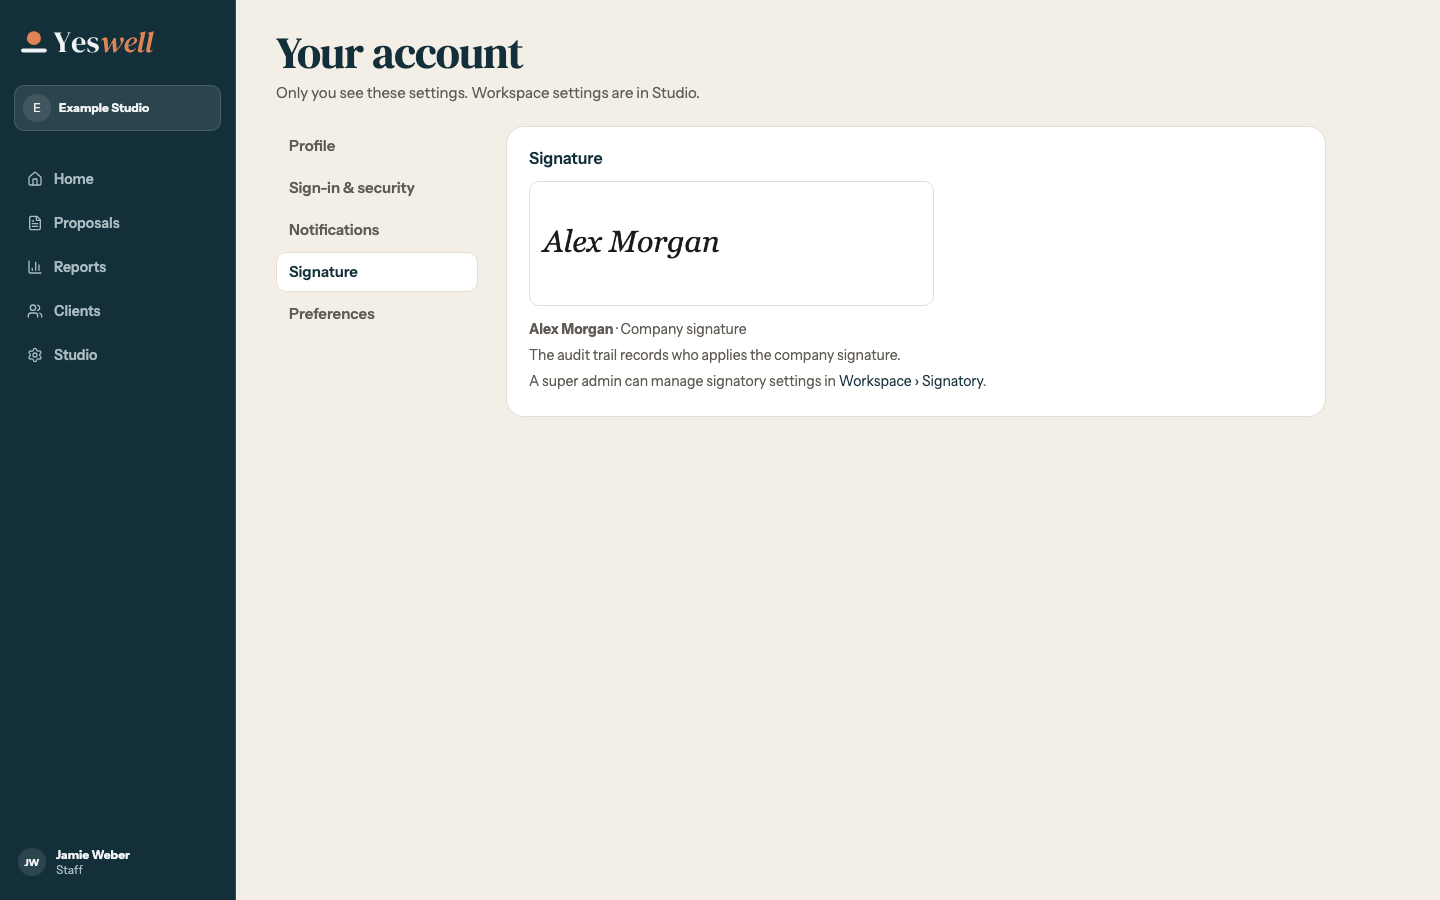
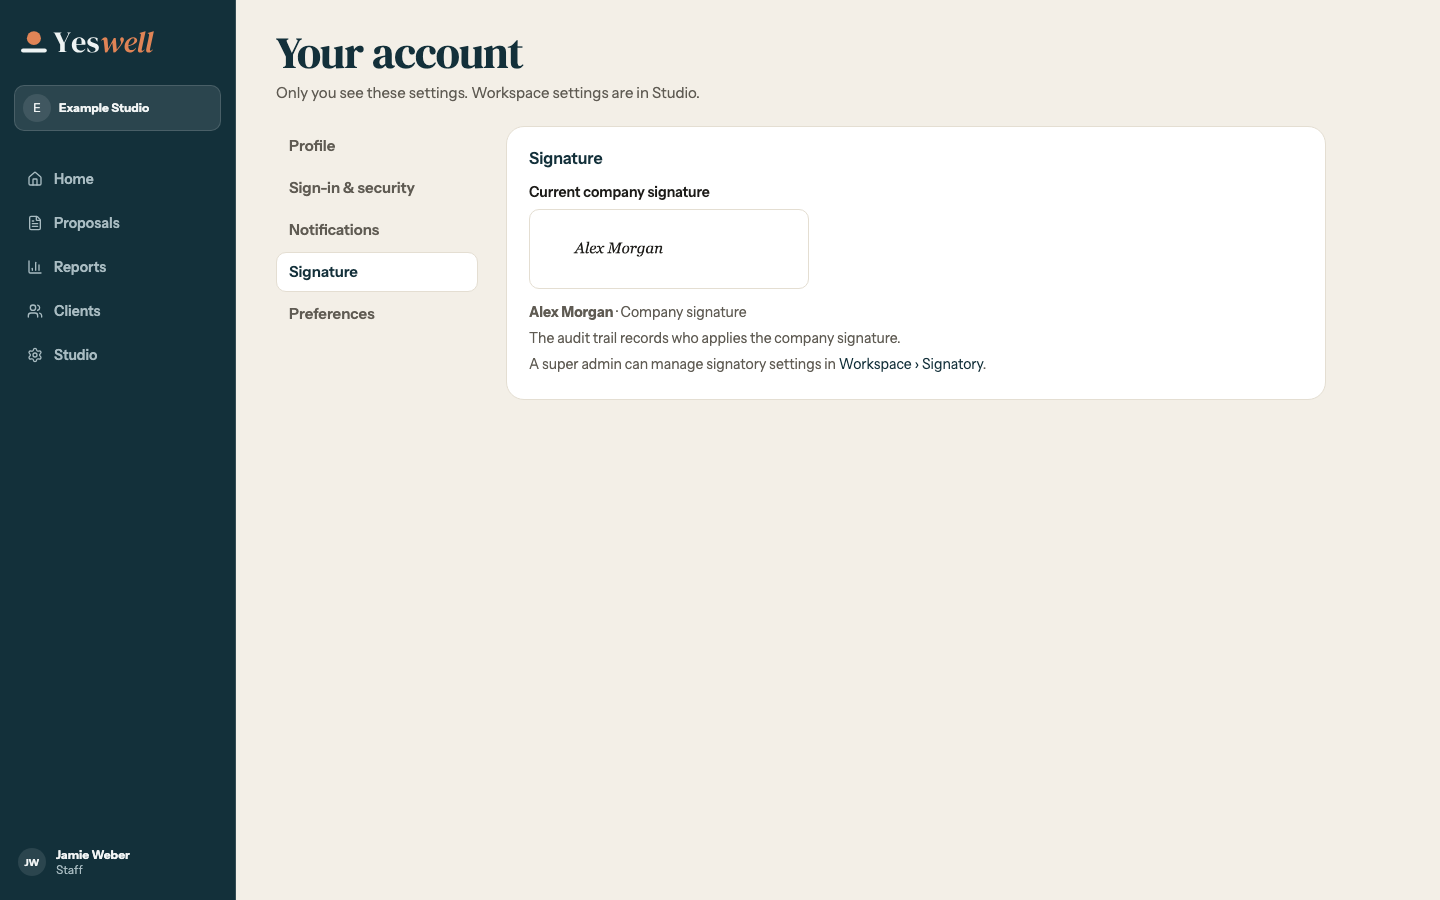
Show the saved company signature in account settings

Changed region(s): [[0.3438, 0.3422, 0.6875, 0.4356], [0.375, 0.2489, 0.5, 0.28], [0.375, 0.1867, 0.5, 0.2178]]

diff --git a/e2e/staff-account.spec.ts b/e2e/staff-account.spec.ts
@@ -170,20 +170,30 @@ test("account pages save edits, keep alerts scoped, and follow R22 at 1440, 768 
   );
   await page.getByRole("button", { name: "Light mode" }).click();
   await expect(page.locator("html")).toHaveAttribute("data-theme", "light");
+  settings.company_signatory!.image = null;
   await page.goto("/account/signature");
-  await expect(
-    page.getByRole("button", { name: "Save signature" }),
-  ).toBeVisible();
-  await capture(page, "1b3-signature-1440");
+  const savedSignature = page.getByRole("img", {
+    name: "Stored company signature",
+  });
+  const noSignature = page.getByText("No signature saved yet", { exact: true });
+  await expect(noSignature).toBeVisible();
+  await expect(savedSignature).toHaveCount(0);
   await page.getByRole("button", { name: "Save signature" }).click();
   await expect(
     page.getByRole("status").getByText("Saved", { exact: true }),
   ).toBeVisible();
+  await expect(noSignature).toHaveCount(0);
+  await expect(savedSignature).toBeVisible();
+  await expect(savedSignature).toHaveAttribute(
+    "src",
+    settings.company_signatory!.image!,
+  );
+  await page.reload();
+  await expect(savedSignature).toBeVisible();
+  await capture(page, "1b3-signature-1440");
   signatory = false;
   await page.reload();
-  await expect(
-    page.getByRole("img", { name: "Stored company signature" }),
-  ).toBeVisible();
+  await expect(savedSignature).toBeVisible();
   await expect(
     page.getByRole("button", { name: "Save signature" }),
   ).toHaveCount(0);
@@ -241,7 +251,27 @@ test("account pages save edits, keep alerts scoped, and follow R22 at 1440, 768 
       await expect(
         page.getByRole("button", { name: "Save signature" }),
       ).toBeEnabled();
+      await expect(savedSignature).toBeVisible();
+      await savedSignature.evaluate((image) =>
+        image.scrollIntoView({ block: "center", behavior: "instant" }),
+      );
+      const preview = (await savedSignature.boundingBox())!;
+      const navigation = (await page
+        .getByRole("navigation", { name: "Phone navigation" })
+        .boundingBox())!;
+      expect(preview.y + preview.height).toBeLessThanOrEqual(navigation.y);
       await capture(page, "1g-signature-375");
+
+      signatory = false;
+      await page.reload();
+      await expect(savedSignature).toBeVisible();
+      settings.company_signatory!.image = null;
+      await page.reload();
+      await expect(noSignature).toBeVisible();
+      await expect(savedSignature).toHaveCount(0);
+      await expect(
+        page.getByRole("button", { name: "Save signature" }),
+      ).toHaveCount(0);
     }
   }
 });

diff --git a/src/components/account-page.tsx b/src/components/account-page.tsx
@@ -522,6 +522,23 @@ function Preferences({ workspaceZone }: { workspaceZone: string }) {
   );
 }
 
+function CurrentSignature({ image }: { image: Signatory["image"] }) {
+  return (
+    <figure className="account-current-signature">
+      <figcaption>Current company signature</figcaption>
+      {image ? (
+        <img
+          className="account-stored-signature"
+          src={image}
+          alt="Stored company signature"
+        />
+      ) : (
+        <p className="muted">No signature saved yet</p>
+      )}
+    </figure>
+  );
+}
+
 function AccountSignature({ data }: { data: Data }) {
   const signature = data.settings?.company_signatory;
   const user = data.user.actor.slice(6);
@@ -535,13 +552,7 @@ function AccountSignature({ data }: { data: Data }) {
   if (signature.user_id !== user)
     return (
       <>
-        {signature.image && (
-          <img
-            className="account-stored-signature"
-            src={signature.image}
-            alt="Stored company signature"
-          />
-        )}
+        <CurrentSignature image={signature.image} />
         <p>
           <strong>{signature.name}</strong> · Company signature
         </p>
@@ -746,16 +757,7 @@ function SignatureEditor({
           Save signature
         </Button>
       </div>
-      {current.signature.image && (
-        <details className="account-current-signature">
-          <summary>Current company signature</summary>
-          <img
-            className="account-stored-signature"
-            src={current.signature.image}
-            alt="Stored company signature"
-          />
-        </details>
-      )}
+      <CurrentSignature image={current.signature.image} />
     </>
   );
 }

diff --git a/src/app/staff-account.css b/src/app/staff-account.css
@@ -259,17 +259,27 @@
   justify-content: flex-end;
   margin-top: 16px;
 }
+.account-current-signature {
+  margin: 12px 0;
+}
+.account-current-signature figcaption {
+  margin-bottom: 6px;
+  font-size: 14px;
+  font-weight: 600;
+}
+.account-current-signature p {
+  margin: 0;
+  font-size: 14px;
+}
 .account-stored-signature {
   display: block;
-  max-height: 125px;
-  max-width: 100%;
-  margin: 12px 0;
+  width: min(100%, 280px);
+  height: 80px;
+  padding: 8px;
+  object-fit: contain;
   background: #fff;
   border: 1px solid var(--border);
   border-radius: var(--radius-md);
-}
-.account-current-signature {
-  margin-top: 12px;
 }
 .account-phone-pages,
 .account-phone-back,
